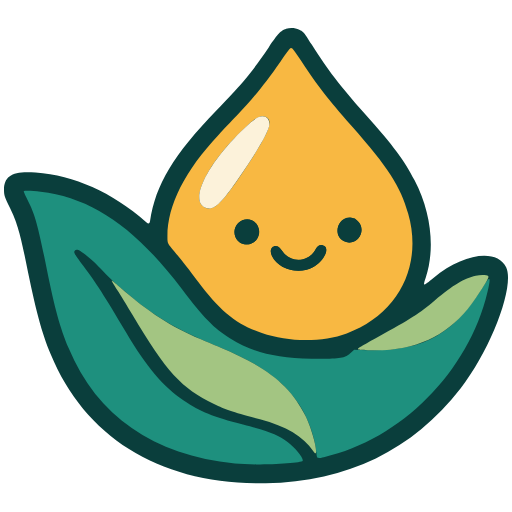
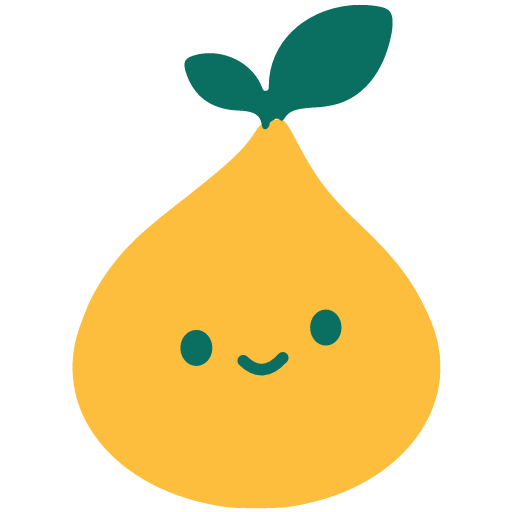
Replace Balm's mark with the owner's mark 12
The owner changed Balm's logo on the review board to mark 12: an amber balm
drop with a small smiling face and a two-leaf sprout. It is vectorised flat and
two-tone (amber #fcbe3c, teal #0a6f61, both sampled from the desk's 1024 file),
with the sprout in the leaf's lighter teal #35947d on dark grounds. The 16 and
32 px favicons are hand-tuned on the pixel grid. The same files keep their
paths, so the site header and footer, /run, the docs, the Lobby, sign-in,
setup, the app shell and the README all show the new mark; favicon.ico,
the PNG icons, apple-touch-icon and the share image are regenerated.

diff --git a/src/site/styles/cards.css b/src/site/styles/cards.css
@@ -5,7 +5,7 @@
 .card p { margin: 0; }
 .icon { width: 100%; height: 100%; fill: none; stroke: currentColor; stroke-width: 1.7; stroke-linecap: round; stroke-linejoin: round; }
 
-/* Round chips with a glyph, in the mark's tints. */
+/* Round chips with a glyph, in the accent tints. */
 .chip-icon { flex: none; display: grid; place-items: center; width: calc(var(--u) * 58); height: calc(var(--u) * 58); border-radius: 50%; }
 .chip-icon .icon { width: 64%; height: 64%; stroke-width: 1.9; }
 .chip-icon.small { width: calc(var(--u) * 42); height: calc(var(--u) * 42); }

diff --git a/public/site/theme.css b/public/site/theme.css
@@ -1,7 +1,7 @@
 /* The run site's tokens, defined once: the homepage, the docs, /run and the 404
    link this file (Base's Run and not-found pages read its --rer-* tokens).
    Balm's look (design desk, 16 Oct 2026): warm ivory paper, deep navy-teal ink,
-   the mark's teal, amber and leaf green as accents, Newsreader headings over
+   teal, amber and leaf green as accents, Newsreader headings over
    Inter body text, white hairline cards with soft shadows. */
 :root {
   --rer-font-body: 'Inter', 'Inter Fallback', Arial, sans-serif;

diff --git a/src/site/docs/TitleDots.tsx b/src/site/docs/TitleDots.tsx
@@ -1,2 +1,2 @@
-/** The mark's three colours under a docs title: teal, amber, leaf green. */
+/** Three accent dots under a docs title: teal, amber, leaf green. */
 export const TitleDots = () => <p className="title-dots" aria-hidden="true"><span /><span /><span /></p>
